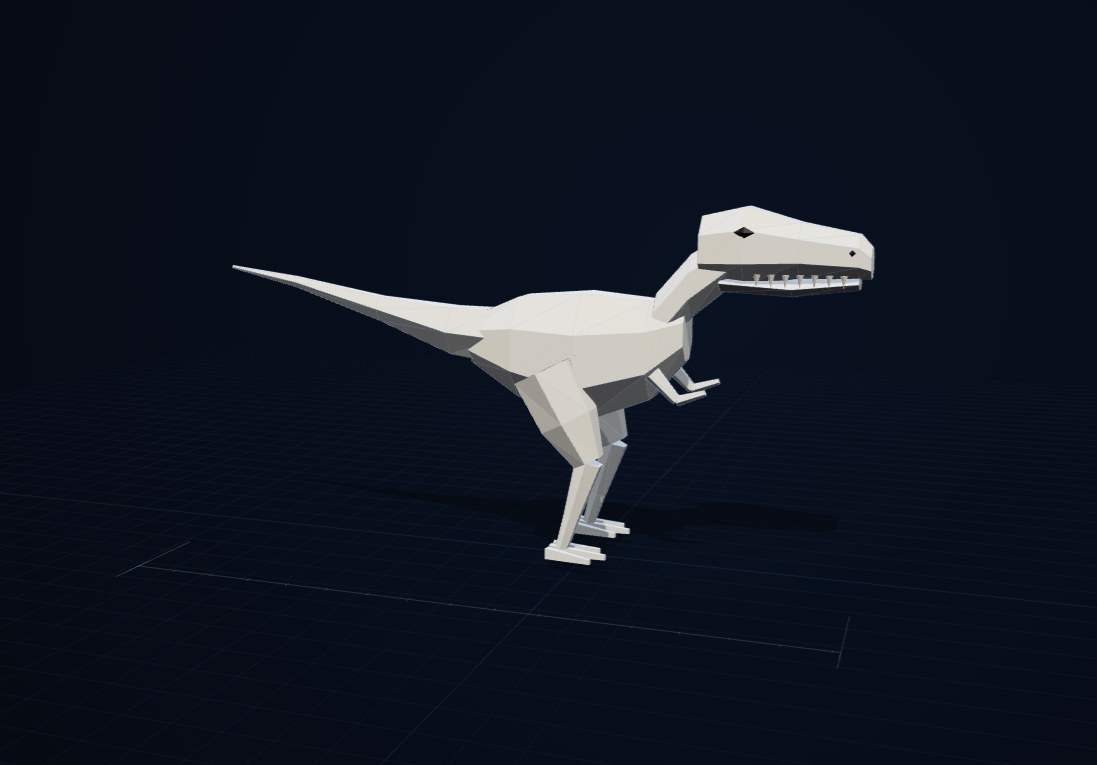
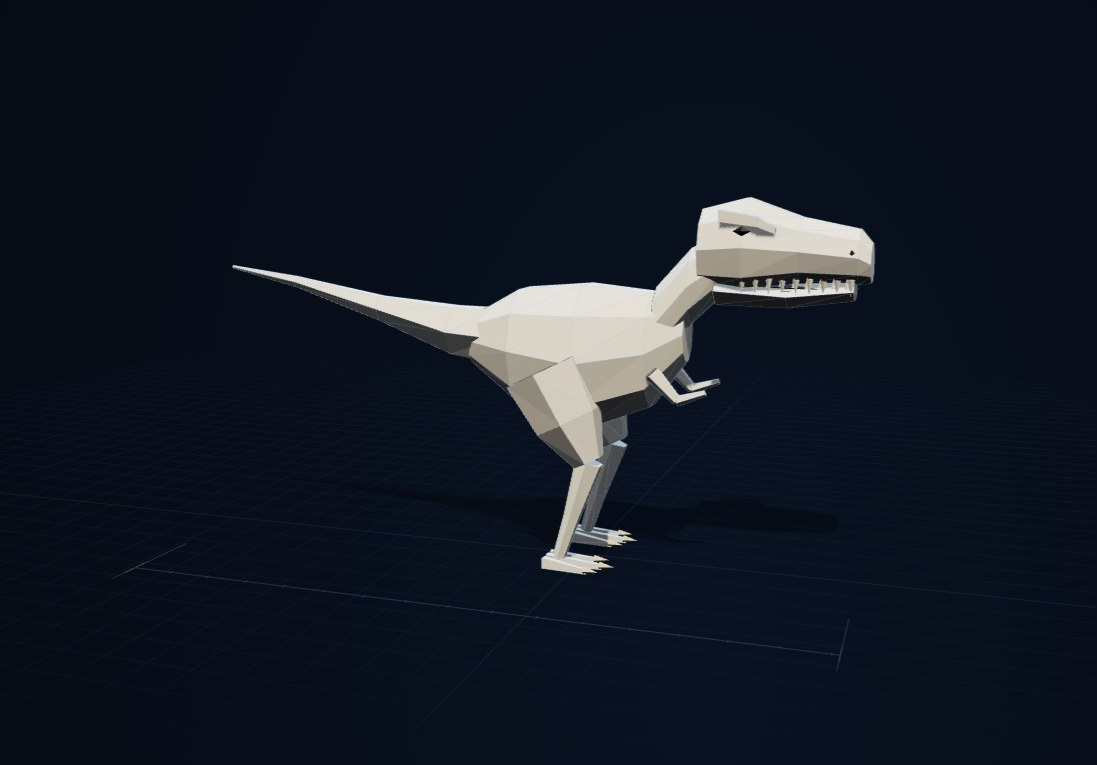
fix(dinosaur): anchor clawed feet to the ground and refresh the poster

Changed region(s): [[0.3099, 0.2405, 0.8058, 0.7516], [0.2479, 0.3608, 0.3099, 0.3908]]

diff --git a/src/scene/PaperDinosaur.ts b/src/scene/PaperDinosaur.ts
@@ -177,6 +177,11 @@ export function createPaperDinosaur(
       jaw.add(lowerTooth)
     }
   }
+  const clawMaterial = new THREE.MeshStandardMaterial({
+    color: '#c7bd9e',
+    roughness: 0.82,
+    flatShading: true,
+  })
   const legs: THREE.Group[] = []
   const arms: THREE.Group[] = []
   for (const sign of [-1, 1]) {
@@ -199,12 +204,12 @@ export function createPaperDinosaur(
       [
         { x: 0, height: 0.35, width: 0.3 },
         { x: 0.7, height: 0.21, width: 0.22 },
-        { x: 1.1, height: 0.16, width: 0.2 },
+        { x: 1.22, height: 0.16, width: 0.2 },
       ],
       6,
     )
     lower.rotation.z = -1.87
-    const foot = joint(shin, 'ankle', -0.32, -1.03)
+    const foot = joint(shin, 'ankle', -0.36, -1.15)
     for (const toe of [-1, 0, 1]) {
       const toeMesh = shell(
         foot,
@@ -222,6 +227,19 @@ export function createPaperDinosaur(
       )
       toeMesh.position.z = toe * 0.16
       toeMesh.rotation.y = toe * -0.15
+      const claw = new THREE.Mesh(
+        new THREE.ConeGeometry(0.055, 0.18, 4),
+        clawMaterial,
+      )
+      const length = 0.46 + (toe === 0 ? 0.12 : 0)
+      claw.position.set(
+        length * Math.cos(toe * -0.15),
+        -0.09,
+        toe * 0.16 - length * Math.sin(toe * -0.15),
+      )
+      claw.rotation.set(0, toe * -0.15, -Math.PI / 2)
+      claw.castShadow = true
+      foot.add(claw)
     }
     legs.push(leg)
     const arm = joint(body, `shoulder-${sign}`, 0.89, -0.1, sign * 0.42)

diff --git a/src/scene/dinosaurGeometry.test.ts b/src/scene/dinosaurGeometry.test.ts
@@ -35,6 +35,11 @@ it.each(['low', 'high'] as const)(
       }
       expect([...edges.values()].every((count) => count === 2)).toBe(true)
     }
+    for (const leg of dinosaur.legs) {
+      const footHeight = new Box3().setFromObject(leg).min.y
+      expect(footHeight).toBeGreaterThanOrEqual(0)
+      expect(footHeight).toBeLessThan(0.04)
+    }
     const bounds = new Box3().setFromObject(dinosaur.root)
     expect(bounds.max.x - bounds.min.x).toBeGreaterThan(7)
     expect(bounds.max.y).toBeGreaterThan(4)
